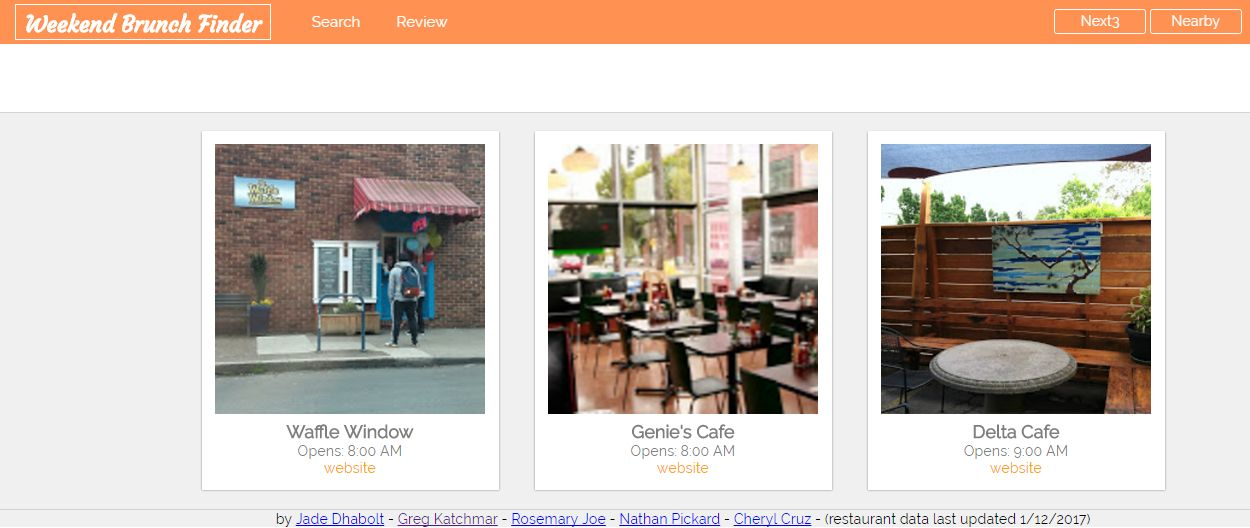
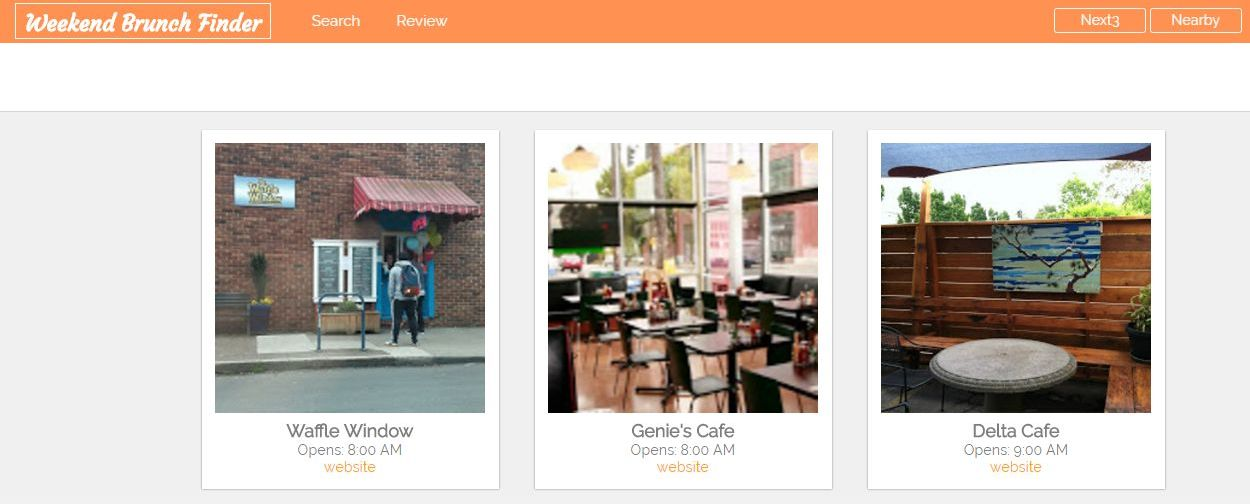
Redid two project photos

diff --git a/src/NavTabs.js b/src/NavTabs.js
@@ -18,9 +18,9 @@ const NavTabs = () => (
   <Tabs>
     <Tab label="Home" >
       <div>
-        <h2 style={styles.headline}>Home</h2>
+        <h2 style={styles.headline}>Gregory N. Katchmar</h2>
         <p>
-          Under Construction
+          Website under construction using React, Material-UI, and React-Router.
         </p>
         <p>
 
@@ -29,7 +29,7 @@ const NavTabs = () => (
     </Tab>
     <Tab label="Portfolio" >
       <div>
-        <h2 style={styles.headline}>Portfolio</h2>
+        <h2 style={styles.headline}>Projects</h2>
         <p>
       <BigToDo />
       <FanClub />

diff --git a/src/index.css b/src/index.css
@@ -1,5 +1,5 @@
 body {
-  margin: 0;
+  margin: 20px;
   padding: 0;
   font-family: sans-serif;
 }
